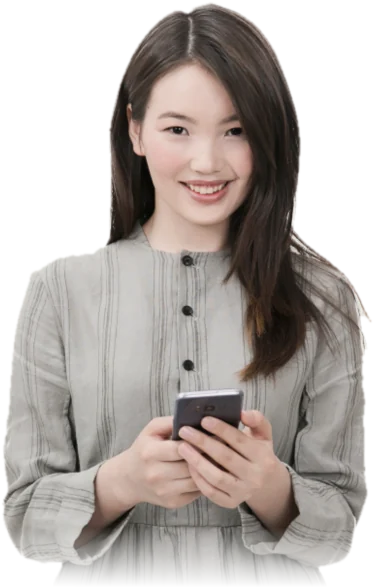
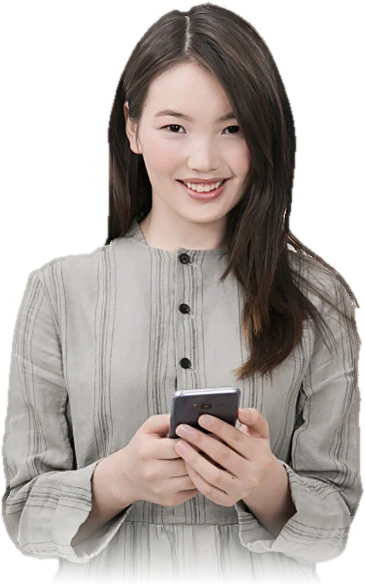
Hero photo: cleaner cut-out edge, drawn at native size; match chip moved off the face
Claude-Session: https://claude.ai/code/session_01R1Re14i3hDuGUXxgFZy6ET

diff --git a/web/static/app.css b/web/static/app.css
@@ -1037,3 +1037,7 @@ footer.lite .pwr{color:#58627F}footer.lite .rbt{color:#101B4D}
 .phero-art.photo img{aspect-ratio:3/2;object-fit:cover;border:6px solid rgba(255,255,255,.18)}
 @media (max-width:900px){.hb .cardstack.hb-visual{display:block;height:330px;max-width:420px;margin:8px auto 0}.hb-visual .hb-person{right:2%;height:108%}.hb-visual .ccard.front.mini{left:0;bottom:6%}}
 @media (max-width:600px){.hb .cardstack.hb-visual{height:290px}.hb-visual .ccard.front.mini{width:165px;padding:10px 12px}.hb-visual .ccard.mini .cc-num{font-size:.7rem}.hb-visual .ccard.mini .cc-bot{display:none}}
+/* chip never covers the person; person drawn no larger than the photo allows */
+.hb-visual .hb-person{height:100%;right:6%}
+.hb-chip{right:auto;left:4%;top:14%}
+@media (max-width:900px){.hb-visual .hb-person{height:100%;right:2%}.hb-chip{left:0;top:6%}}
